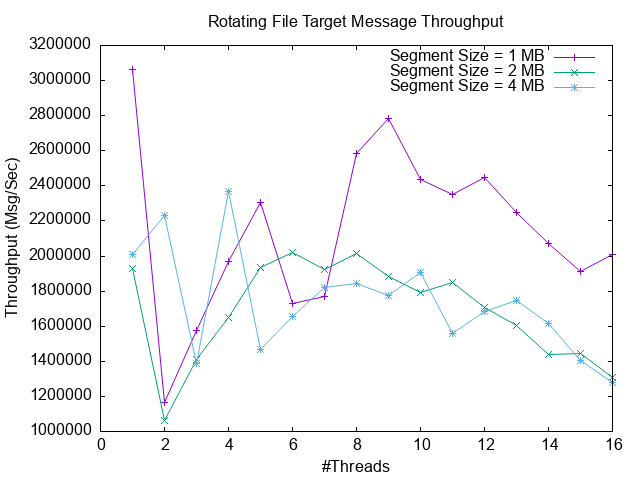
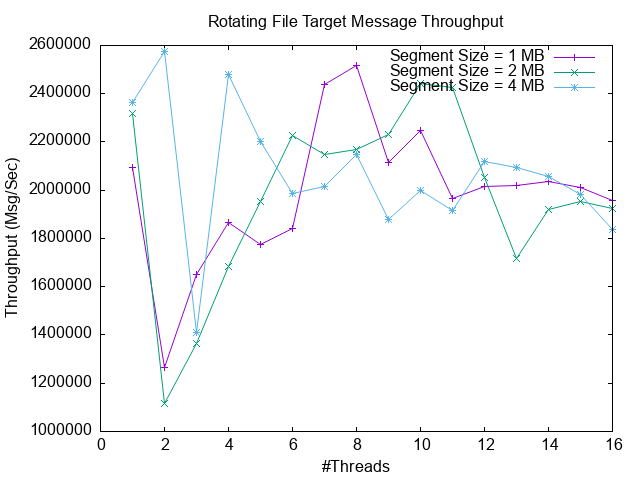
1. Updated readme, especially benchmark part 2. Fixed segmented and rotating benchmark 3. Updated segmented and rotating chart

diff --git a/src/elog_bench/src/elog_bench.cpp b/src/elog_bench/src/elog_bench.cpp
@@ -2581,38 +2581,40 @@ void testPerfBufferedFile() {
 
 void testPerfSegmentedFile() {
     const char* cfg =
-        "file:///./bench_data/"
-        "elog_bench_segmented_1mb.log?file_segment_size=1mb&file_buffer_size=1mb&flush_policy="
-        "none";
+        "file:///./bench_data/elog_bench_segmented_1mb.log?"
+        "file_segment_size=1mb&file_buffer_size=64kb&flush_policy=none";
     runMultiThreadTest("Segmented File (1MB segment size)", "elog_bench_segmented_1mb", cfg);
 
     cfg =
-        "file:///./bench_data/"
-        "elog_bench_segmented_2mb.log?file_segment_size=2mb&flush_policy=none";
+        "file:///./bench_data/elog_bench_segmented_2mb.log?"
+        "file_segment_size=2mb&file_buffer_size=64kb&flush_policy=none";
     runMultiThreadTest("Segmented File (2MB segment size)", "elog_bench_segmented_2mb", cfg);
 
     cfg =
-        "file:///./bench_data/"
-        "elog_bench_segmented_4mb.log?file_segment_size=4mb&flush_policy=none";
+        "file:///./bench_data/elog_bench_segmented_4mb.log?"
+        "file_segment_size=4mb&file_buffer_size=64kb&flush_policy=none";
     runMultiThreadTest("Segmented File (4MB segment size)", "elog_bench_segmented_4mb", cfg);
 }
 
 void testPerfRotatingFile() {
     const char* cfg =
-        "file:///./bench_data/"
-        "elog_bench_rotating_1mb.log?file_segment_size=1mb&file_buffer_size=1mb&"
-        "file_segment_count=5&flush_policy=none";
+        "file:///./bench_data/elog_bench_rotating_1mb.log?"
+        "file_segment_size=1mb&file_segment_count=5&"
+        "file_buffer_size=64kb&"
+        "flush_policy=none";
     runMultiThreadTest("Rotating File (1MB segment size)", "elog_bench_rotating_1mb", cfg);
 
     cfg =
-        "file:///./bench_data/"
-        "elog_bench_rotating_2mb.log?file_segment_size=2mb&file_segment_count=5&"
+        "file:///./bench_data/elog_bench_rotating_2mb.log?"
+        "file_segment_size=2mb&file_segment_count=5&"
+        "file_buffer_size=64kb&"
         "flush_policy=none";
     runMultiThreadTest("Rotating File (2MB segment size)", "elog_bench_rotating_2mb", cfg);
 
     cfg =
-        "file:///./bench_data/"
-        "elog_bench_rotating_4mb.log?file_segment_size=4mb&file_segment_count=5&"
+        "file:///./bench_data/elog_bench_rotating_4mb.log?"
+        "file_segment_size=4mb&file_segment_count=5&"
+        "file_buffer_size=64kb&"
         "flush_policy=none";
     runMultiThreadTest("Rotating File (4MB segment size)", "elog_bench_rotating_4mb", cfg);
 }

diff --git a/src/elog/src/elog_segmented_file_target.cpp b/src/elog/src/elog_segmented_file_target.cpp
@@ -223,6 +223,12 @@ bool ELogSegmentedFileTarget::SegmentData::open(const char* segmentPath,
 
 bool ELogSegmentedFileTarget::SegmentData::log(const char* logMsg, size_t len) {
     // NOTE: we do not log error message to avoid log flooding
+    // TODO: we can optimize here, since each logging thread can grab its own section of the buffer,
+    // and the one the causes overflow should wait for buffer flush, this will avoid using a lock,
+    // but then again, the flushing thread will have to wait for all previous logging threads to
+    // finish memcpy (can be achieved with GC/epoch), and then all that came after the overlowing
+    // thread, will have to wait too for buffer flush. Does this complexity worth the effort? Seems
+    // that gain is marginal due to constant waiting for buffer flush
     if (m_bufferedFileWriter != nullptr) {
         return m_bufferedFileWriter->logMsg(logMsg, len);
     } else {
@@ -387,7 +393,7 @@ void ELogSegmentedFileTarget::logFormattedMsg(const char* formattedLogMsg, size_
         return;
     }
 
-    // NOTE: the following call to fputs() is guaranteed to be atomic according to POSIX
+    // write data to current log segment
     if (!segmentData->log(formattedLogMsg, length)) {
         // TODO: in order to avoid log flooding, this error message must be emitted only once!
         // alternatively, the log target should be marked as unusable and reject all requests to log

diff --git a/README.md b/README.md
@@ -117,7 +117,7 @@ The ELog library provides the following notable features:
     - Although perhaps not the fastest out there, ELog still provides very high performance logging with low overhead
     - Minimal formatting on logging application side, possibly combined with lock-free asynchronous logging
     - Full formatting takes place on background thread
-    - **160 nano-seconds latency** using Quantum log target (asynchronous lock-free ring buffer, **scalable** in multi-threaded scenarios)
+    - **130 nano-seconds latency** using Quantum log target (asynchronous lock-free ring buffer, **scalable** in multi-threaded scenarios), coupled with binary, pre-cached logging
     - Check out the [benchmarks](#Benchmarks) below
 - Synchronous and asynchronous logging schemes
     - Synchronous logging to file, allowing for efficient buffering and log rotation/segmentation
@@ -199,7 +199,7 @@ The ELog library provides the following notable features:
 - Connectivity to external TCP/UDP receiver
 - Inverse connector with TCP/UDP server and multicast publish beacon (for embedded systems with no IP known in advance)
 - Shared memory log target with separate child logging process (for instrumentation scenarios where opening log file is not allowed)
-- Logging hub framework for log pre-processing before shipping to server analysis (offload to endpoints)
+- Logging hub framework for log pre-processing before shipping to server analysis (offload to edge compute)
 
 
 ## Common Use Cases
@@ -1820,38 +1820,54 @@ TBD
 
 The following unofficial benchmarks results illustrate the high performance of the ELog library.  
 
-The benchmark is divided into four parts:
+The benchmark is divided into five parts:
 
 - Test the impact of empty logging with private and shared logger
 - Search for best configuration of each flush policy (count, size, time)
 - Single-threaded comparison of all log targets (file, async file)
 - Multi-threaded scaling of each tested configuration
+- Binary Logging and Caching Acceleration Test
 
 All multi-threaded tests were conducted with each thread hammering its own private logger.
 Shared logger multi-threaded tests are provided only for the quantum log target.
 
 All tests were performed on Windows, compiling with g++ for MinGW, running under MSYSTEM console.  
-All tests were conducted on commodity hardware.
+All tests were conducted on commodity hardware (16 CPU machine, 32 hyper-threaded).
 
-Please note that all benchmarks calculate the average value and not percentiles.  
-The reason for that is that collecting each sample time affected greatly the test, reducing performance up to 20%.  
-Since there is no interaction with external system (at least in this benchmark), only averages are presented,  
+Please note that all benchmarks calculate the average value and not percentiles,  
+due to the great effect of sample collection with each log operation, resulting in performance degradation of up to 20%.  
+Since there is no interaction with external systems (at least in this benchmark), only averages are presented,  
 as outliers are not expected.
 
 ### Benchmark Highlights
 
-The following table summarizes the main KPIs of the ELog library:
+The following table summarizes the throughput of various logging scenarios:
+
+| KPI | Value |
+|:---|---:|
+| Synchronous Logging Throughput (flush each message) | 184181 Msg/Sec |
+| Synchronous Logging Throughput (no flush) | 1.88 Million Msg/Sec |
+| Synchronous Buffered* Logging Throughput (no flush) | 2.33 Million Msg/Sec |
+| Asynchronous Logging Throughput | 2.89 Million Msg/Sec |
+| Asynchronous Lock-free Logging Throughput | 5.3 Million Msg/Sec |
+| Asynchronous Lock-free Binary Pre-Cached Logging Throughput** | 7.6 Million Msg/Sec |
+
+The following table summarizes the latency of various logging scenarios:
 
 | KPI | Value |
 |:---|---:|
 | Private Logger Latency (no log issued) | 0.2 nano-seconds |
 | Shared Logger Latency (no log issued) | 1.3 nano-seconds |
-| Synchronous Logging Throughput (flush each message) | 163444 Msg/Sec |
-| Synchronous Logging Throughput (delayed flush) | 2.4 Million Msg/Sec |
-| Asynchronous Logging Throughput* (single-threaded) | 6.4 Million Msg/Sec |
-| Asynchronous Logging Latency (single-threaded) | 156 nano-seconds |
+| Synchronous Logging Latency (flush each message) | 5.5 micro-seconds |
+| Synchronous Logging Latency (no flush) | 533 nano-seconds |
+| Synchronous Buffered Logging Latency (no flush) | 429 nano-seconds |
+| Asynchronous Logging Throughput Latency | 347 nano-seconds |
+| Asynchronous Lock-free Logging Throughput Latency | 189 nano-seconds |
+| Asynchronous Lock-free Binary Pre-Cached Logging Throughput* | 132 nano-seconds |
 
-NOTE: Asynchronous logging throughput refers to the logger's capacity to push messages to the end log target, not to the throughput of disk writing.
+Notes:  
+1. The buffered logging is an internal buffering implemented by ELog, which exhibits slightly better performance than default OS implementation.  
+2. Asynchronous logging throughput refers to the logger's capacity to push messages for logging, not to the actual disk writing throughput.
 
 ### Empty Logging Benchmark
 
@@ -1869,14 +1885,25 @@ So although both exhibit very low impact (10000 messages took 2 and 13 microseco
 the private is clearly performing better (X6.5 times faster).  
 Note that the latency on the logging application is minimal: 0.2 and 1.3 nano-seconds on private and shared logger respectively. 
 
+### Synchronous File Log Target Flush Baseline
+
+The following table summarizes the baseline results for all flush policy tests:
+
+| Flush Policy | Value |
+|:---|---:|
+| Immediate (flush each message) | 184181 Msg/Sec |
+| Never (no flush) | 1.88 Million Msg/Sec |
+
 ### Synchronous File Log Target with Count Flush Policy
 
 Following are the benchmark test results for synchronous file log target with flush_policy=count, setting varying count values:
 
 ![plot](./src/elog_bench/png/flush_count.png)
 
-As it can be seen, flush_count=512 and flush_count=1024 both yield the best results (around 2.4 Million messages per second), and setting a higher number does need yield any better results.  
+As it can be seen, form flush_count=256 and above, all graphs look asymptotic to each other, peaking at around 2.5M msg/sec at 3 threads, after which the behavior becomes not scalable.  
 Most probably this has to do with underlying system file buffers.  
+Therefore, both for single-threaded and multi-threaded scenarios, it suffices to set flush_count to 256.
+
 NOTE: Doing direct/async I/O is not being considered at this time.
 
 ### Synchronous File Log Target with Size Flush Policy
@@ -1886,8 +1913,8 @@ Following are the benchmark test results for synchronous file log target with fl
 ![plot](./src/elog_bench/png/flush_size.png)
 
 The results of this test are rather illuminating.
-First, we can conclude that setting buffer size of 64KB yields top results, peaking at around 2.2 Million messages per second.
-Second, increasing the buffer size does not have any notable effect.  
+First, we can conclude that setting flush_size to 64KB yields top results, peaking at around 2.5M msg/sec at 3 threads, after which the behavior becomes not scalable.  
+Second, increasing the flush_size does not have any notable effect. flush_size of 1MB looks just the same.  
 Again, this is most probably related to the underlying system file buffers.
 
 ### Synchronous File Log Target with Time Flush Policy
@@ -1896,10 +1923,72 @@ Following are the benchmark test results for synchronous file log target with fl
 
 ![plot](./src/elog_bench/png/flush_time.png)
 
-The results here shows that a flush period of 500 ms and 1000ms yield the best results, but the differences are not so clear.  
-This again probably has to do with underlying buffer size, and the right timing to flush them (not too early and not too late).
+The fact that all the graphs look the same indicates, that the time value has no effect.  
+Most probably the internal buffer gets full before the flush policy has a chance to flush, except for occasionally flushing semi-full buffers.  
 
-### Single-threaded Synchronous File Log Target Comparison
+### Synchronous File Log Target Flush Policy Summary
+
+The following plot compares several flush policy with baseline (multi-threaded test):
+
+![plot](./src/elog_bench/png/flush.png)
+
+As it can be seen, all flush policies behave the same, regardless of configuration, just like the Never Flush Policy.  
+This means that using a simple FILE* without flushing is probably the best thing to do.  
+But before we come up with that kind of a conclusion, let's first take a look at buffered, segmented, and rotation log targets.
+
+### Synchronous Buffered File Log Target
+
+Following are the benchmark test results for synchronous file log target, using internal buffering scheme, without flushing:
+
+![plot](./src/elog_bench/png/file_buffered.png)
+
+Although behavior is a bit unstable, we can see a trend:
+
+1. There is only a slight performance degradation
+2. Buffer size of 64 kb performs quite well compared with much higher buffer sizes
+3. Although large buffer sizes may at times exhibit better performance, their behavior is inconsistent
+
+Overall, compared with other flush policy, and especially compared with Never Flush Policy, we see better results, both with respect to single-threaded performance, and with respect to multi-threaded scalability.
+
+### Synchronous Segmented File Log Target
+
+This type of log target poses a different challenge, with two more occasional file I/O operations: open and close.  
+The segmented file log target uses a temporary queue during the segment switch, such that logging threads are not stuck waiting for a new segment to be opened, unless the queue gets full. Only the segment switching thread pays the penalty of open and close file.  
+The segmented file log target can be used in conjunction with buffered logging.
+
+The segmented file log target was conducted with buffered logging, using 64kb buffer size:
+
+![plot](./src/elog_bench/png/file_segmented.png)
+
+Here are some key points to take from this benchmark:
+
+1. For single-threaded scenario it may benefit to use larger segment sizes
+2. For multi-threaded scenarios the segment size has no real effect
+3. From some point on, performance is somewhat steady, around 2M msg/sec
+
+Compared with single file logging, the segmented file log target demonstrates better behavior, and that is due to the lock-free queue being used during segment switch, which allows logging threads to fill the pending message queue. If the queue gets full, then logging threads begin to wait, so it depends how much time it takes to open a new segment. The tests above were done with 1 million pending log messages per segment.
+
+More experimentation may be required with this log target in order to achieve better results.
+
+### Synchronous Rotating File Log Target
+
+The rotating file log target is very similar to the segmented log target, only that at some point it reuses old segments,  
+after truncating them.  
+The test was conduct with rotation of 5 log segments, using varying segment size, and 64kb file buffering.  
+The amount of log data causes rotation to take place 15 times (i.e. there is a total of 75 segments).  
+
+Here are the results of the benchmark:
+We expect to see therefore similar results as with segmented log file target:
+
+![plot](./src/elog_bench/png/file_rotating.png)
+
+Although the behavior is a bit chaotic, we can see that it is similar to segmented logging:
+
+1. For single-threaded scenario it may benefit to use larger segment sizes
+2. For multi-threaded scenarios the segment size has no real effect
+3. From some point on, performance is somewhat steady, around 2M msg/sec
+
+### Single-threaded File Log Target Comparison
 
 In the following bar chart, all synchronous file log target configurations are compared together:
 
@@ -1909,7 +1998,9 @@ This last comparison needs further explanation:
 
 - The 'immediate' policy flushes after each log message write, and exhibits the lowest performance
 - The 'never' policy simply never flushes, and serves as a baseline for other configurations
-- All other synchronous logging methods exhibit the same single-threaded performance (around 950,000 messages per second)
+- All other synchronous logging methods with single file exhibit the same single-threaded performance (around 1.8M msg/sec)
+- Buffered file log target behave a bit better with 2.2M msg/sec
+- Segmented and rotating file log target, coupled with 64kn buffer, shows a small degradation, with 2M msg/sec
 
 The last 3 logging methods are asynchronous and mostly exhibit high performance as expected, but it should be noted that  
 this does not relate to disk write performance, but rather to logger throughput.  
@@ -1917,9 +2008,12 @@ In other words, this actually illustrates the logger latency when using asynchro
 
 Points to note:
 
-- The deferred log target can receive 4.2 Million messages per second, that is an average latency of 238 nano-seconds per message
-- The quantum log target can receive 6.4 Million messages per second, that is an average latency of 156 nano-seconds per message
-- The queued log target can receive 1.6 Million messages per second, and requires further investigation
+- The deferred log target can receive 2.8M msg/sec, that is an average latency of 347 nano-seconds per message
+- The queued log target can receive 2.7M msg/sec
+- The quantum log target can receive 5.3M msg/sec, that is an average latency of 189 nano-seconds per message
+- The quantum log target, with binary logging, can receive 6.6M msg/sec, that is an average latency of 151 nano-seconds per message
+- The quantum log target, with binary logging and auto-cache, can receive 6.7M msg/sec
+- The quantum log target, with binary logging and pre-cache, can receive 7M msg/sec (at times 10M msg/sec was observed)
 
 All asynchronous loggers were configured with generous buffer sizes for testing peak performance.  
 In reality this measures the peak performance during a log message burst.  
@@ -1934,4 +2028,38 @@ This test checks the scalability of each log target, and the results are interes
 As the graph depicts, the deferred and queued log targets are not scalable, since both impose a lock,  
 whereas the quantum log target employs a lock-free ring buffer.  
 The results show that the quantum logger is fully scalable, as much as system resources allow.  
-In addition, when using a shared logger (for instance, in a code section that is concurrently accessed by many threads), the quantum logger is still scalable, though slightly lagging behind the private logger performance.
+In addition, when using a shared logger (for instance, in a code section that is concurrently accessed by many threads), the quantum logger is still scalable, though slightly lagging behind the private logger performance.  
+
+Finally, binary logging shows slightly better performance, and the reason is that the log format message is rather short (25 characters long), having only one integer parameter to format.
+
+### Binary Logging and Format Message Caching
+
+Binary Logging allows to put the entire formatting in another context.  
+First, the effect of using an increasing number of format parameters was tested with a short log message.  
+This is a single-threaded test, that logs a format message with increasing number of integer format parameters.
+
+Here are the results:
+
+![plot](./src/elog_bench/png/bin_accel_param_count.png)
+
+Here are some interesting key points from this chart:
+
+1. The "regular" logging techniques, i.e. formatting with printf or fmtlib, does not scale well as the format message has an increasing number of parameters to format.
+2. All forms of binary logging techniques behave well and are not affected by number of parameters, since copying a few integers into a buffer is not a significantly heavy task
+3. Binary logging with automated caching was slightly slower than other binary logging techniques, and that is a bit surprising. This could be a marginal error, or that the format message is rather short, so there is no real gain in caching.
+4. Binary logging with pre-caching was fighting neck-to-neck with binary logging, and that could be due to the fact that unlike automated-caching, it does not need access to a thread local variable, which requires less steps to get the variable, and also allows a more cache-friendly execution (maybe even put in register)
+
+The second benchmark that was conducted, was with varying format message length, this time using only 1 integer parameters.  
+The purpose was to test the effect of format message caching.
+This is a single-threaded test, using asynchronous lock-free logging, combined with buffered file logging.
+
+Here are the results:
+
+![plot](./src/elog_bench/png/bin_accel_msg_len.png)
+
+The results are rather dramatic:
+
+1. Both "regular" printf and fmtlib formatting are not scalable with respect to format message size, and degrade from 5M msg/sec to 0.5M msg/sec
+2. The binary logging scheme, without any caching, does not scale, and starting from 200 bytes format message size, it begins to degrade, starting from 8M msg/sec, until it reaches 1M msg/sec when format message size is 1000 bytes long
+3. Both Binary logging with automated caching and with pre-caching scale well and preserve steady performance as would be expected
+4. Pre-cached binary logging performs slightly better probably, as explained in the previous section, due to the fact it has optimized access to the cache entry id, not requiring access to thread-local variable, but rather local variable, which is more cache-friendly.
